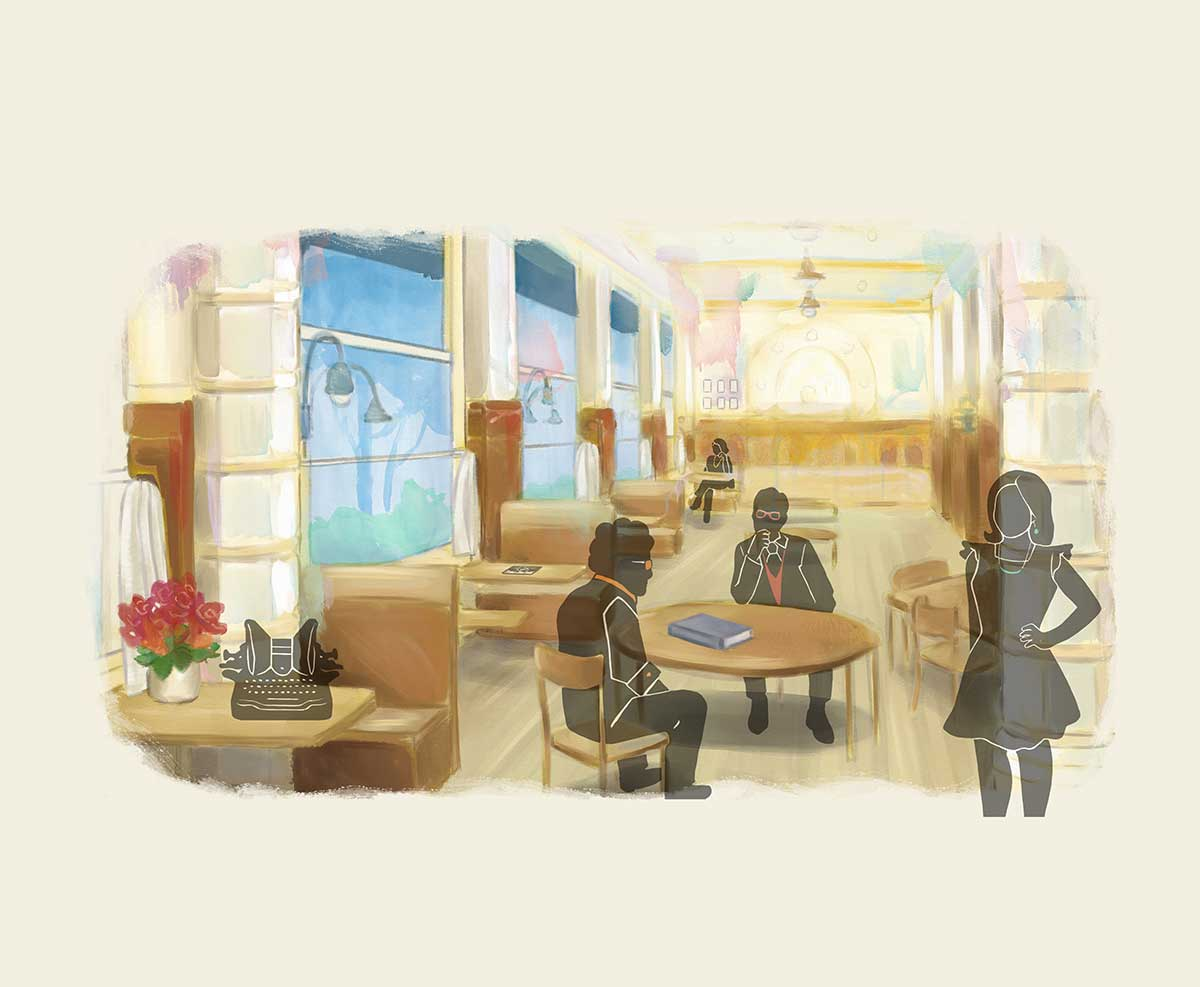
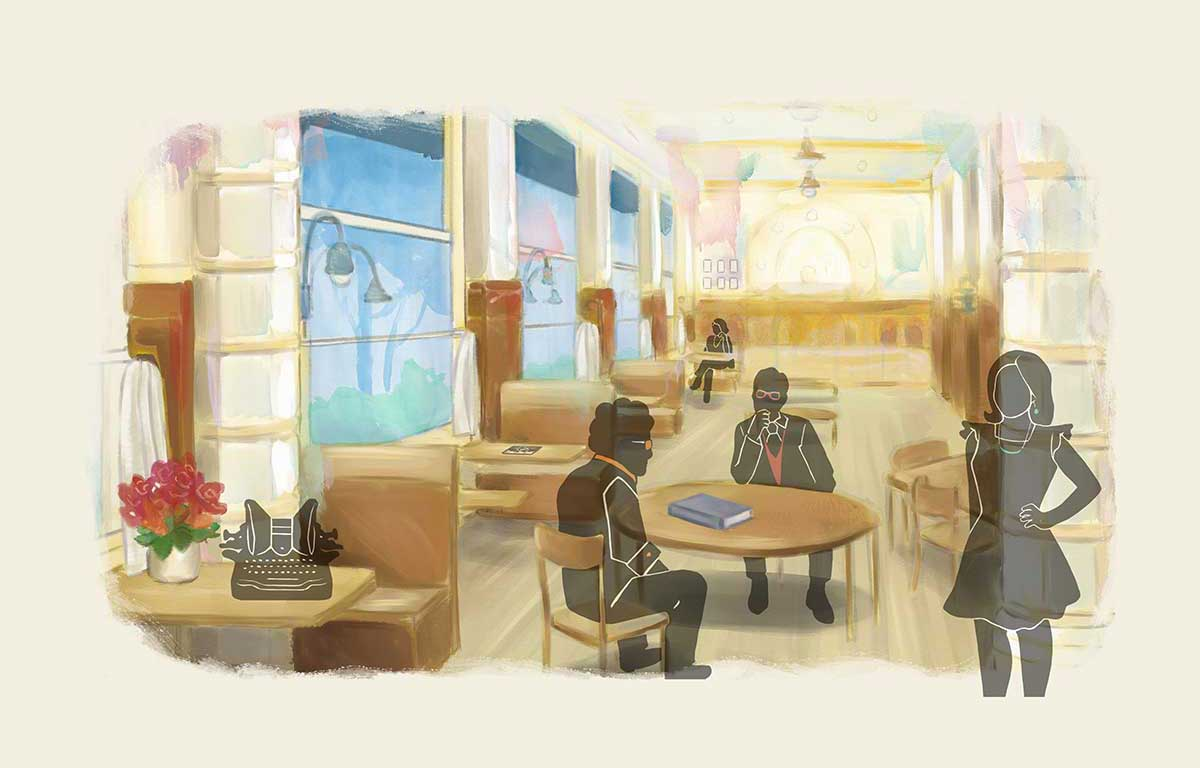
reviews mobile, cafe mobile, preorder mobile

diff --git a/src/app/dialogs/reviews-dialog/reviews-dialog.component.scss b/src/app/dialogs/reviews-dialog/reviews-dialog.component.scss
@@ -69,3 +69,27 @@
         }
     }
 }
+
+@media screen and (orientation: portrait) {
+    .dialog-container::after {
+        display: none;
+    }
+    .dialog-container {
+        top: 0;
+        .reviews-container {
+            height: 96%;
+            width: 96%;
+            margin: 2%;
+            .review {
+                margin: 0 10%;
+            }
+            .close-button {
+                left: initial;
+                bottom: initial;
+                transform: initial;
+                right: 4px;
+                top: 4px;
+            }
+        }
+    }
+}

diff --git a/src/app/dialogs/preorder-dialog/preorder-dialog.component.scss b/src/app/dialogs/preorder-dialog/preorder-dialog.component.scss
@@ -538,7 +538,7 @@
   }
   .preorder-container {
     height: fit-content;
-    position: initial;
+    z-index: 1000;
     top: initial;
     left: initial;
     transform: initial;
@@ -555,6 +555,11 @@
       margin: 0 0 35px 0;
       .box-header {
         grid-row: 1;
+        span {
+          flex-direction: row;
+          flex-wrap: wrap;
+          justify-content: center;
+        }
       }
       .author-blurbs {
         flex: unset;

diff --git a/src/app/cafe/cafe.component.scss b/src/app/cafe/cafe.component.scss
@@ -8,7 +8,10 @@
   .image-wrapper {
     width: min-content;
     position: relative;
-    bottom: 5%;
+    display: flex;
+    flex-direction: column;
+    justify-content: center;
+    height: 100vh;
     .cafe-interior {
       width: calc(99vh * 1.3862067) !important;
       height: auto;

diff --git a/src/styles.scss b/src/styles.scss
@@ -31,7 +31,7 @@ body {
   --ob-darkblue: #153242;
   --ob-yellow: #d9af53;
   --ob-white: #fffffe;
-  --lp-bg: #f2efe2;
+  --lp-bg: #f1efe0;
   --bg-opacity: rgba(242, 239, 226, 0.9);
   --accent-mint: #5aa18f;
   --bg-accent-mint: #e8f0ee;
